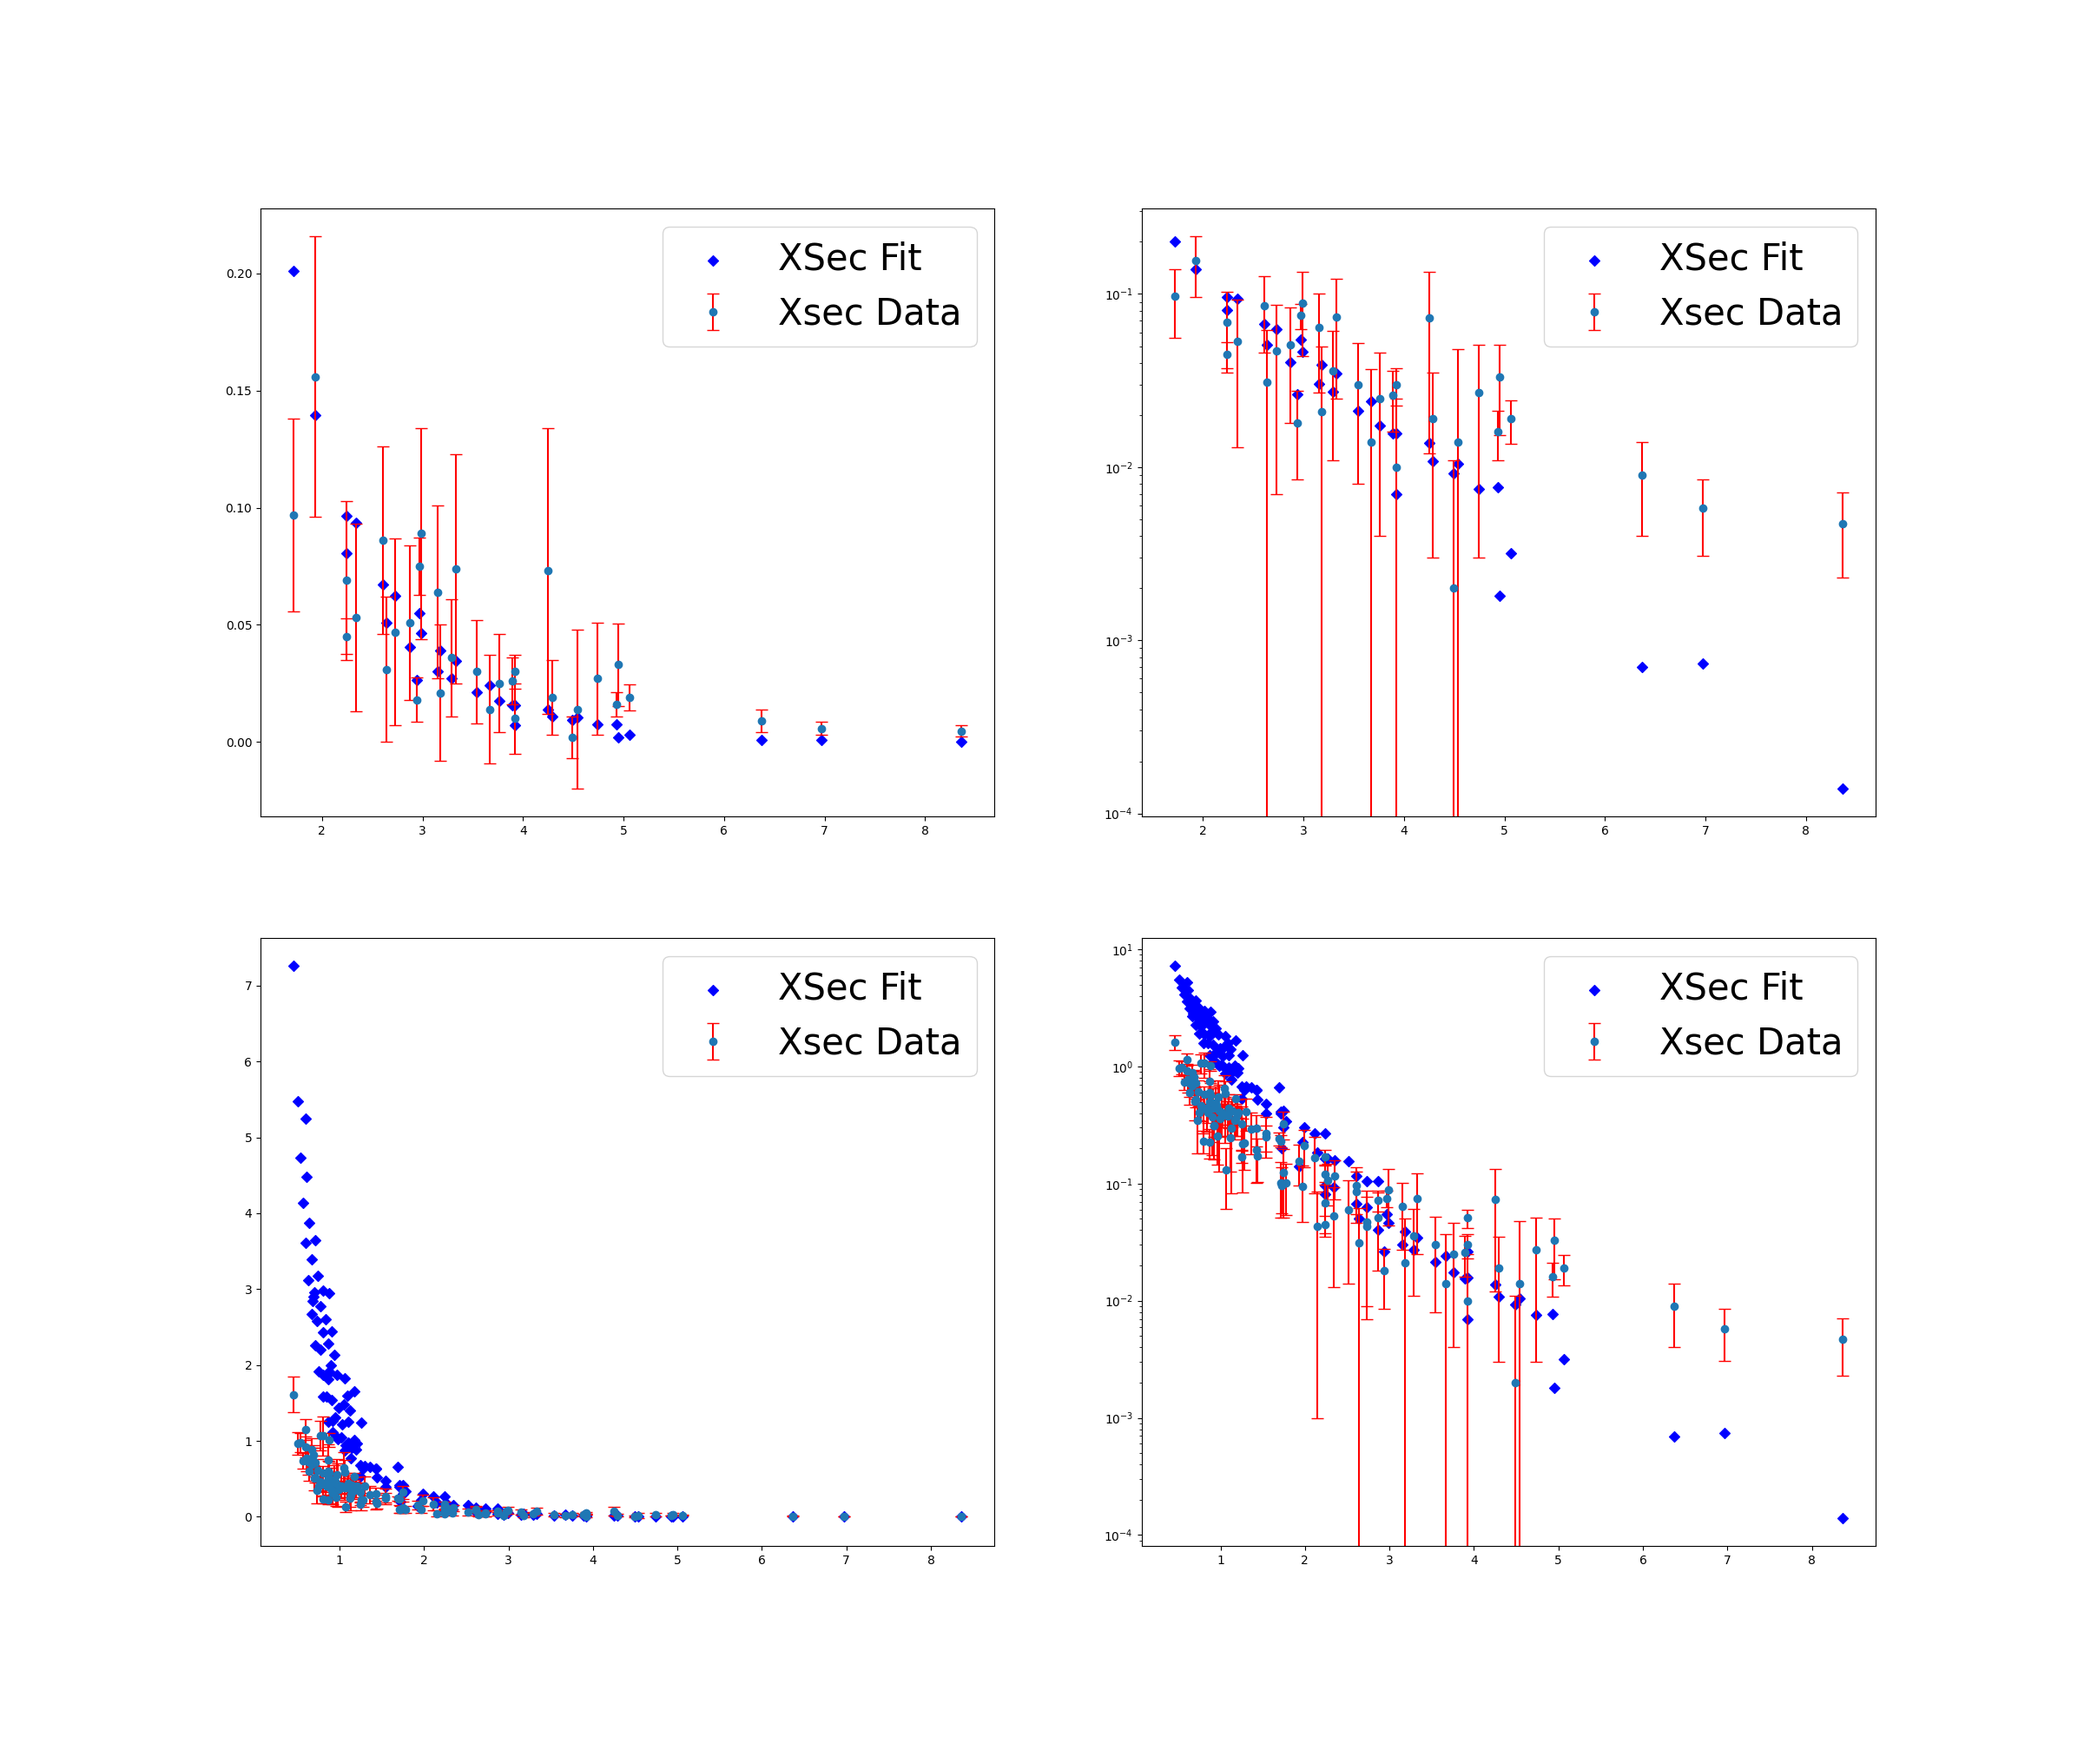
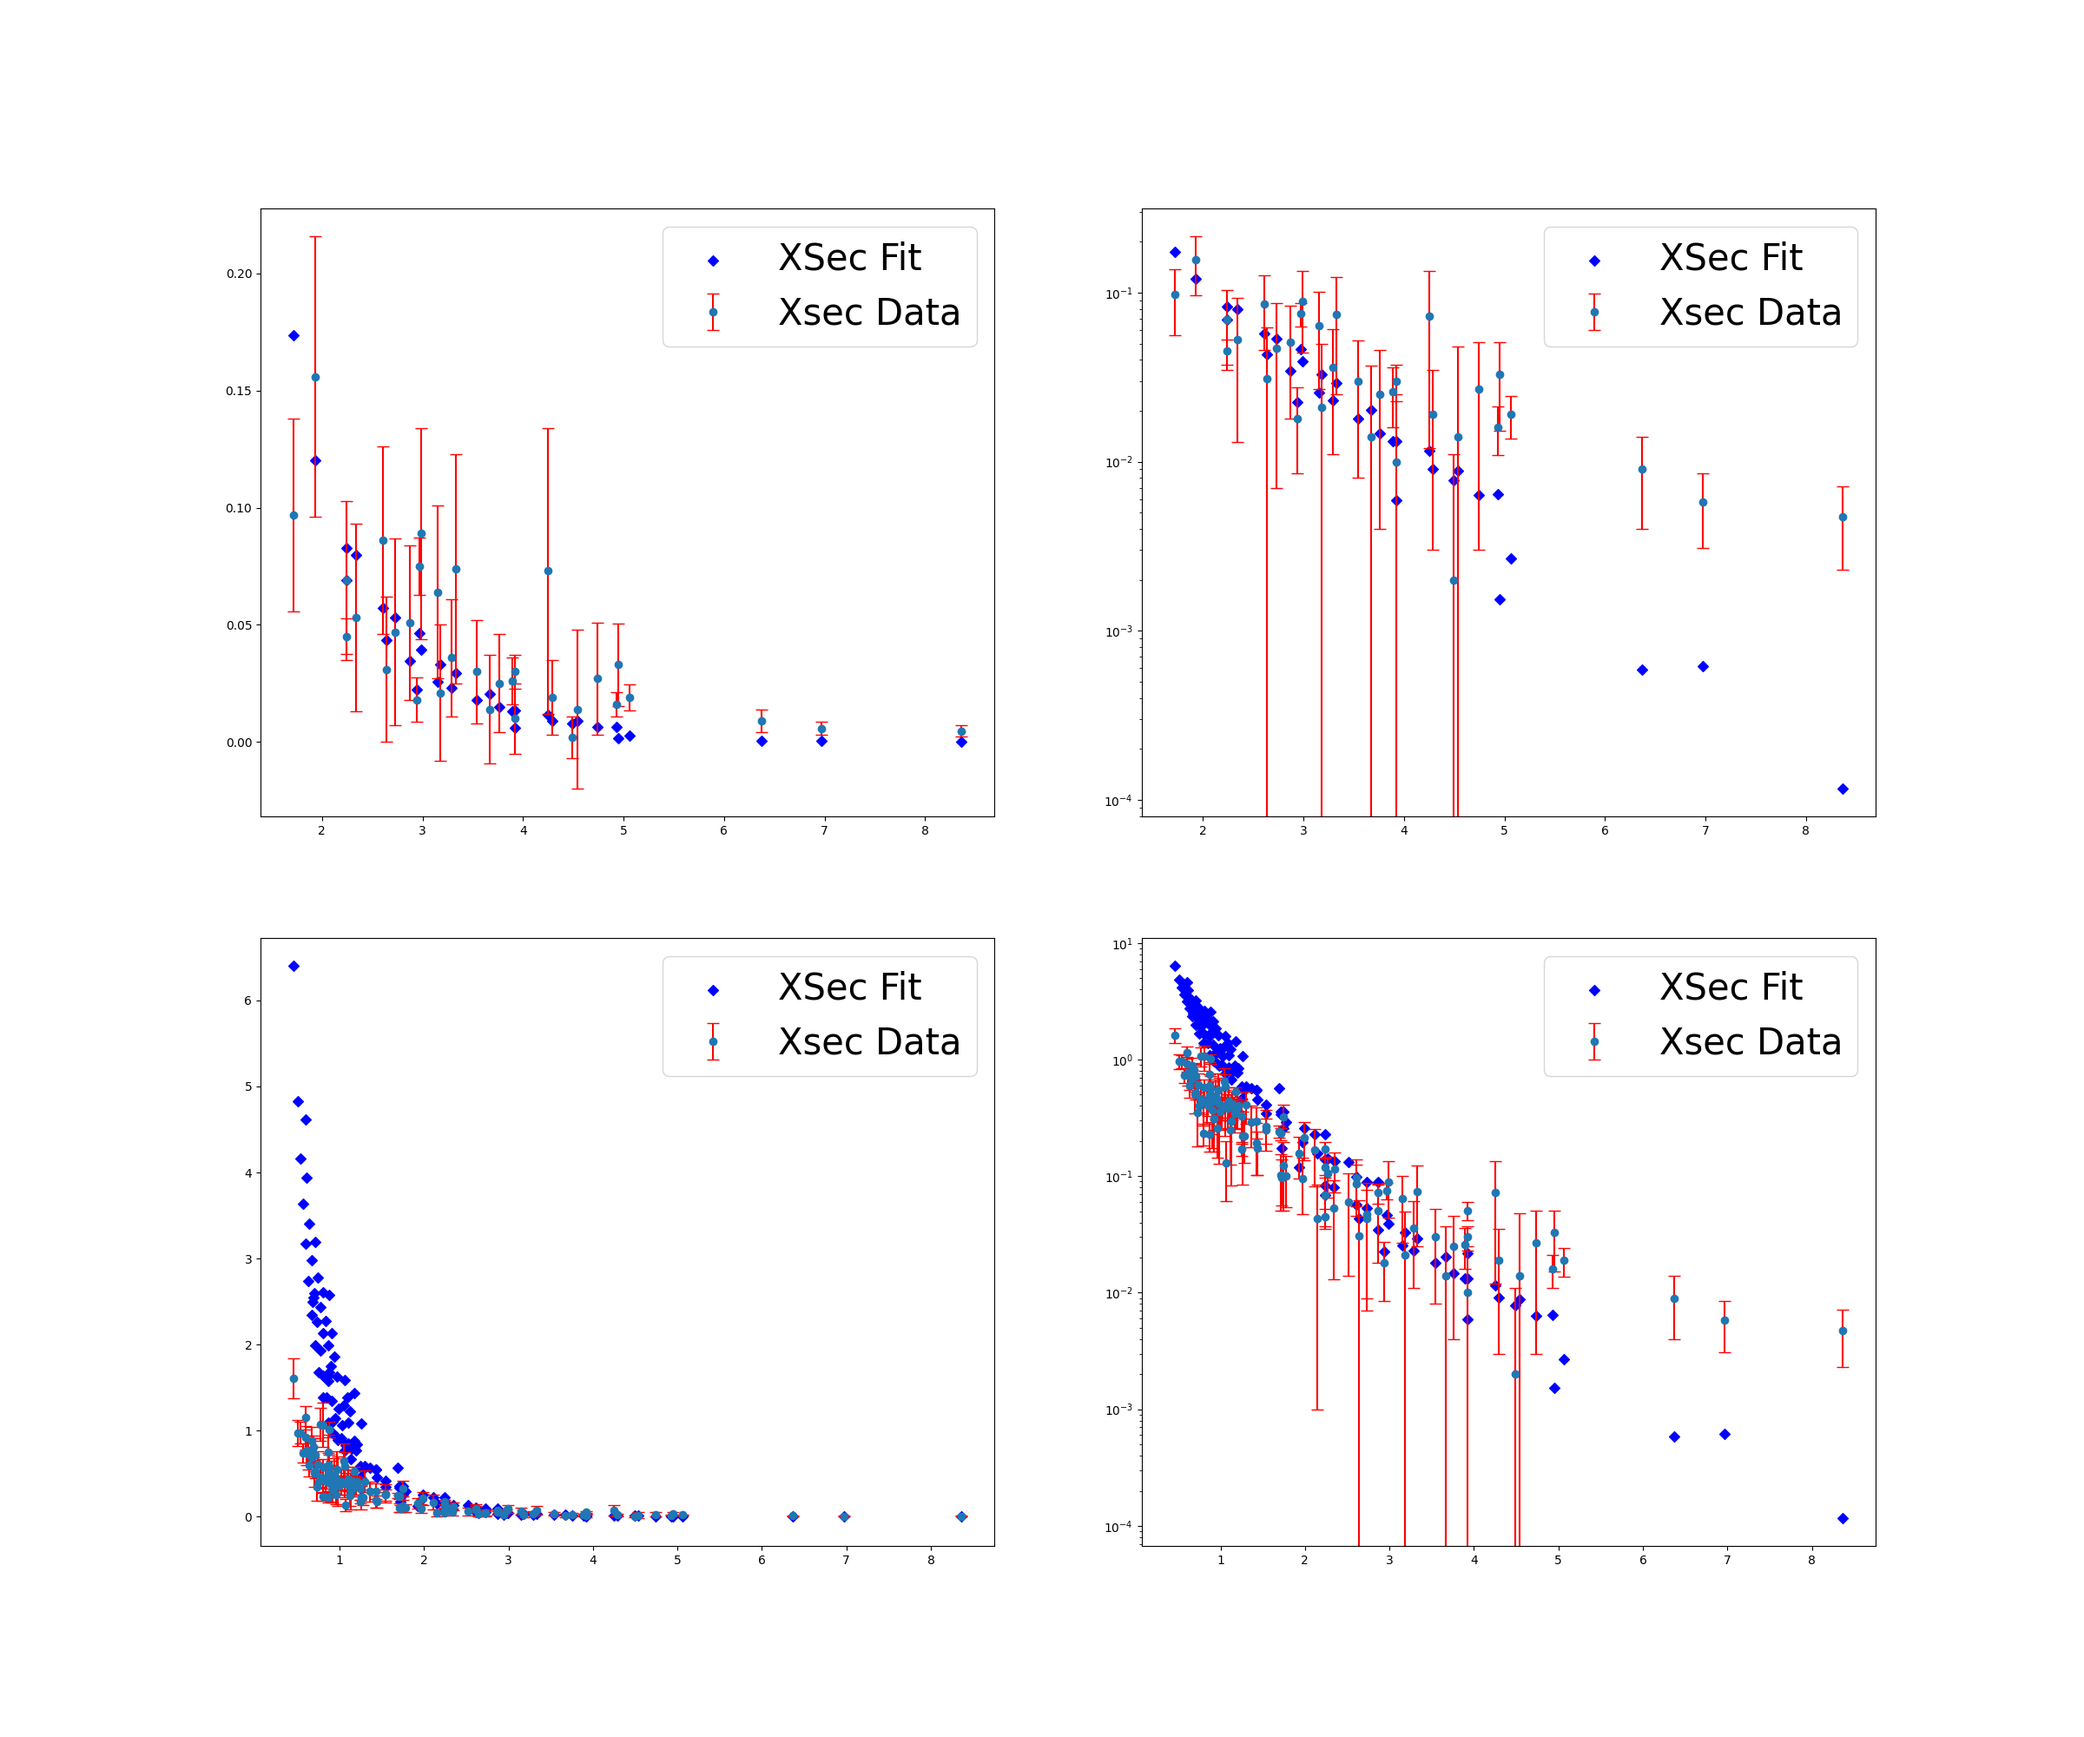
Fix gluon prefactor

diff --git a/Jpsi_production.py b/Jpsi_production.py
@@ -354,7 +354,7 @@ def fit(str):
     
     plt.savefig(f'Output/{str}/Exp_Compare.png')
     plt.close('all')
-'''
+
 INCLUDE_XSEC = False
 P_ORDER = 1
 fit("lattice_only")
@@ -369,7 +369,7 @@ INCLUDE_XSEC = True
 P_ORDER = 2
 fit("lattice_NLOexp")
 print("Lattice + NLO experimental data fit and plot finished...")
-'''
+
 
 def chi2_exp(Ag0: float, MAg: float, Cg0: float, MCg: float, Aq0: float, MAq: float, Cq0: float, MCq: float, A_pole: int, C_pole: int):
 
@@ -494,10 +494,9 @@ def fit_exponly(str):
     plt.savefig(f'Output/{str}/Exp_Compare.png')
     plt.close('all')
 
-'''
+
 P_ORDER = 1
 fit_exponly("Exp_only_LO")
 
 P_ORDER = 2
 fit_exponly("Exp_only_NLO")
-'''

diff --git a/Evolution.py b/Evolution.py
@@ -786,6 +786,11 @@ def Evo_WilsonCoef_SG(mu: float,nf: int, p:int = 1, p_order: int =1):
     CWj0qNLO = alphaS * (cq1 - 10/9/np.pi* 2 * log(m_charm/mu))
     CWj0gNLO = alphaS * (cg1 - 55/16/np.pi * 2 * log(m_charm/mu))
     CWj0NLO = [CWj0qNLO, CWj0gNLO]
+
+    # Fixing the -1 glue prefactor
+    glufact = np.array([1,-1])
+    CWj0LO = np.einsum('i,i->i',CWj0LO,glufact)
+    CWj0NLO = np.einsum('i,i->i',CWj0NLO,glufact)
     
     CWevo0 = alphaS * np.einsum('ij,j->i',evola0,CWj0LO)
     
